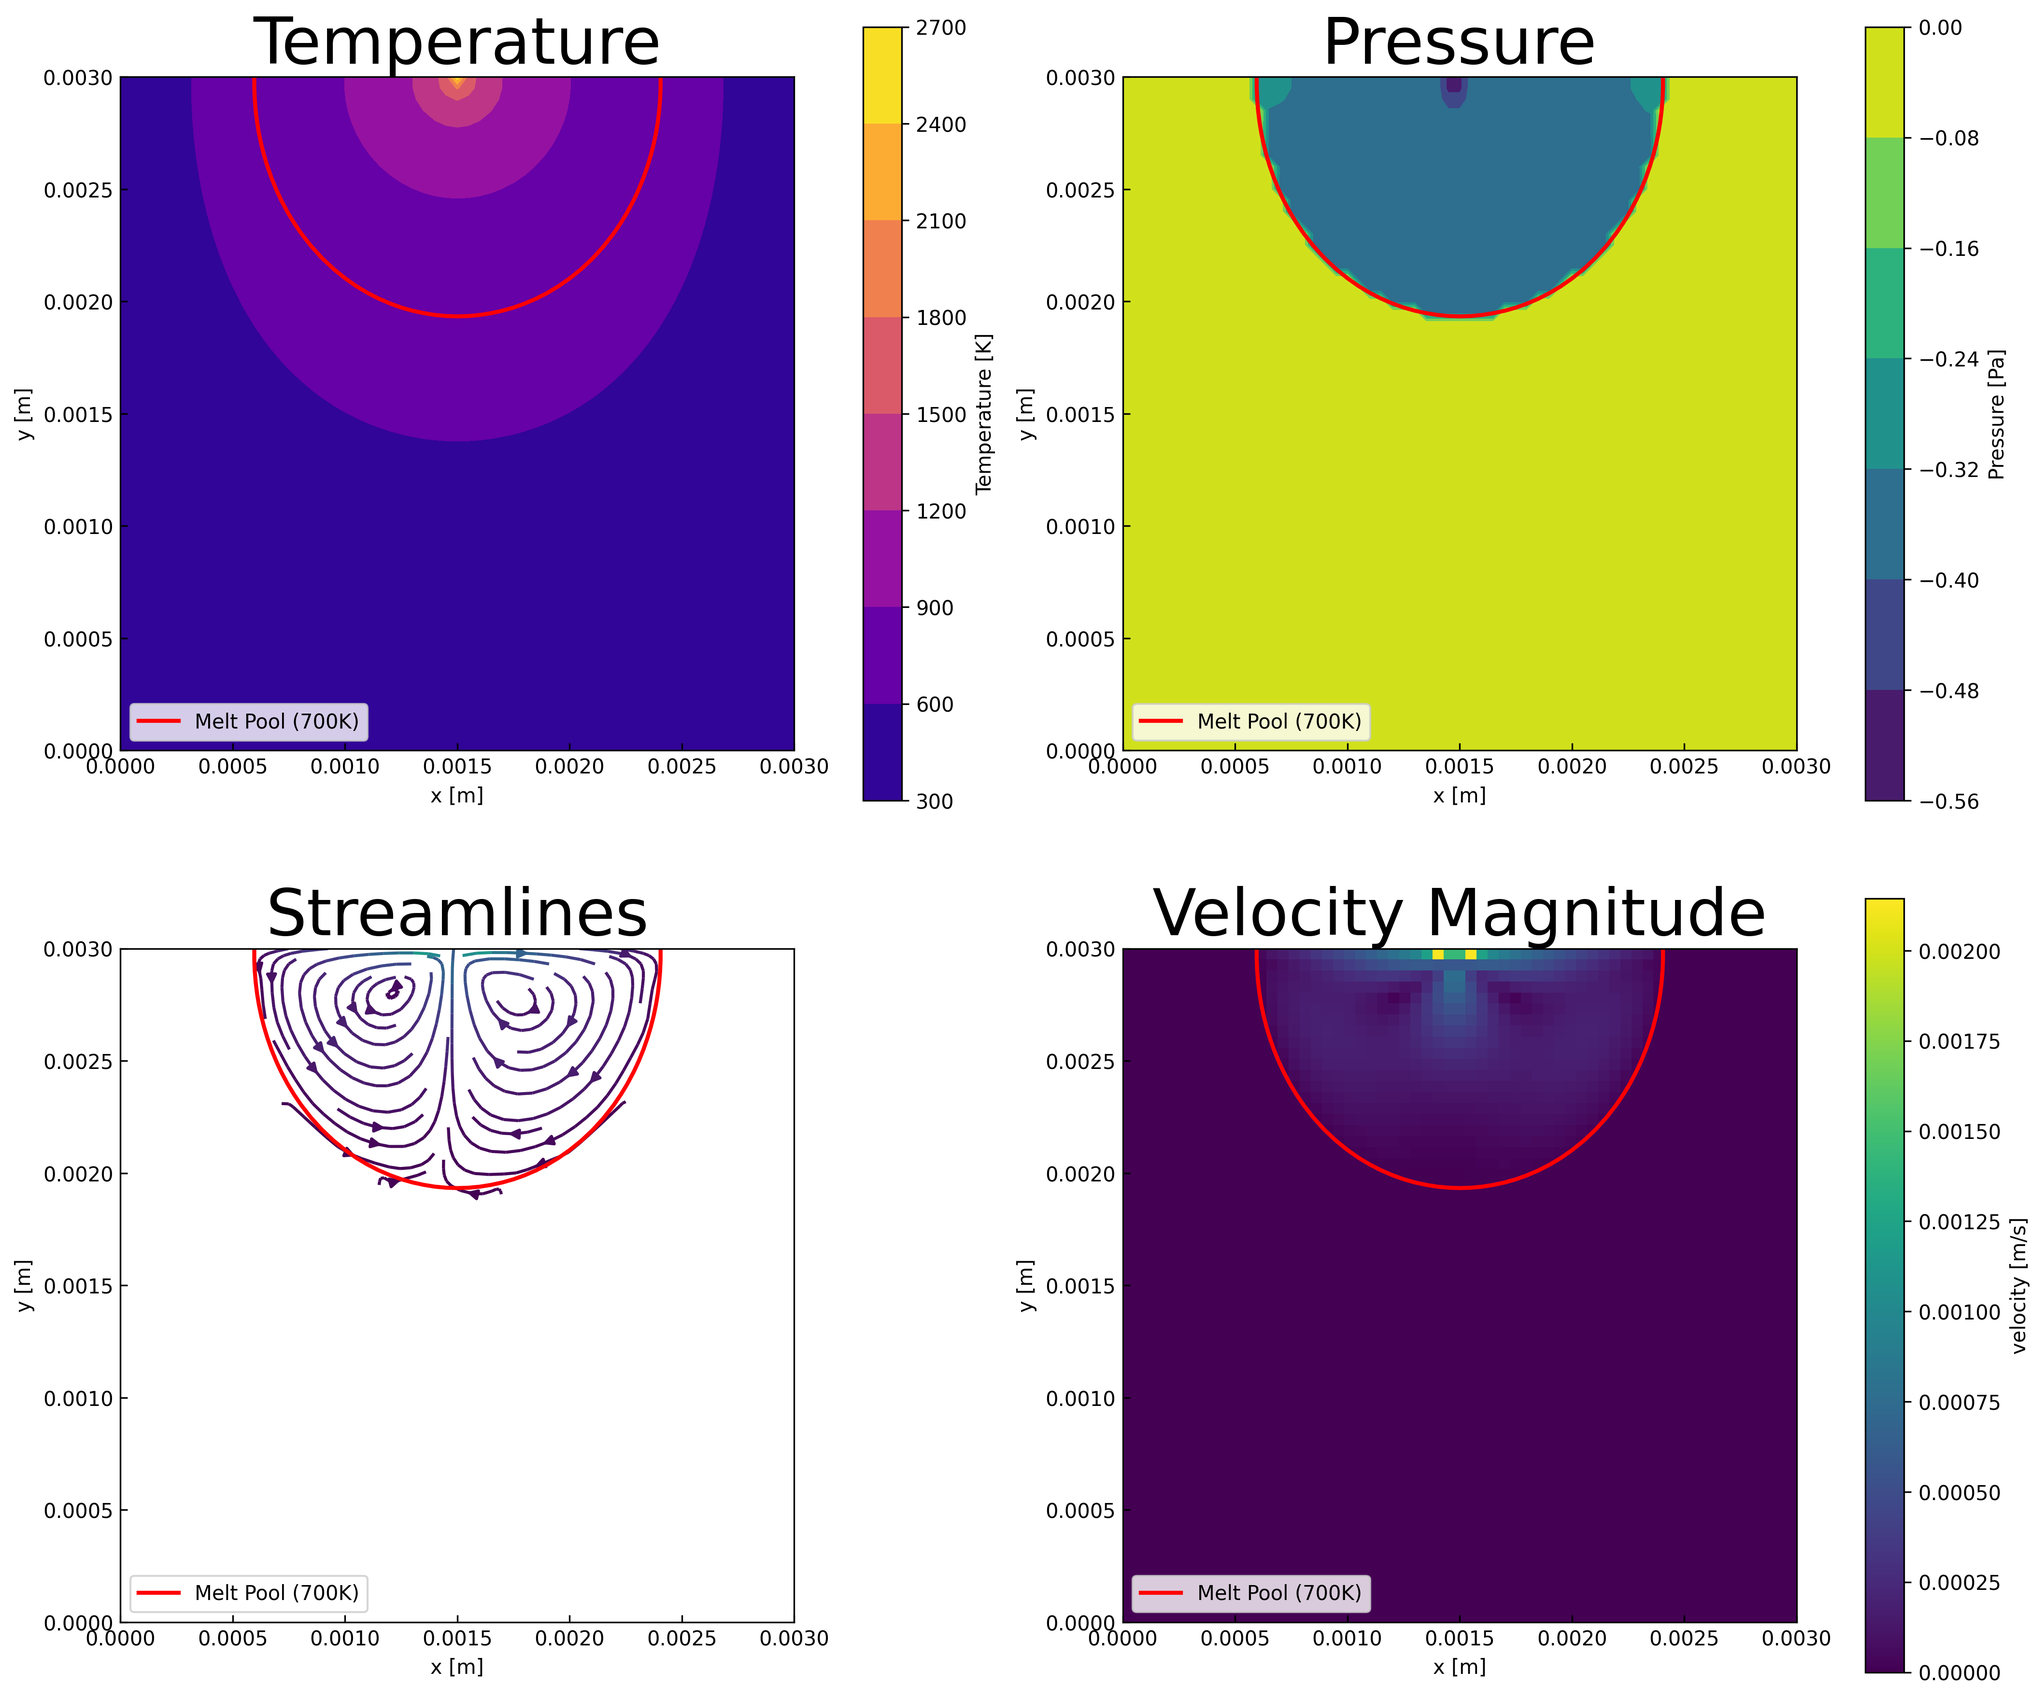
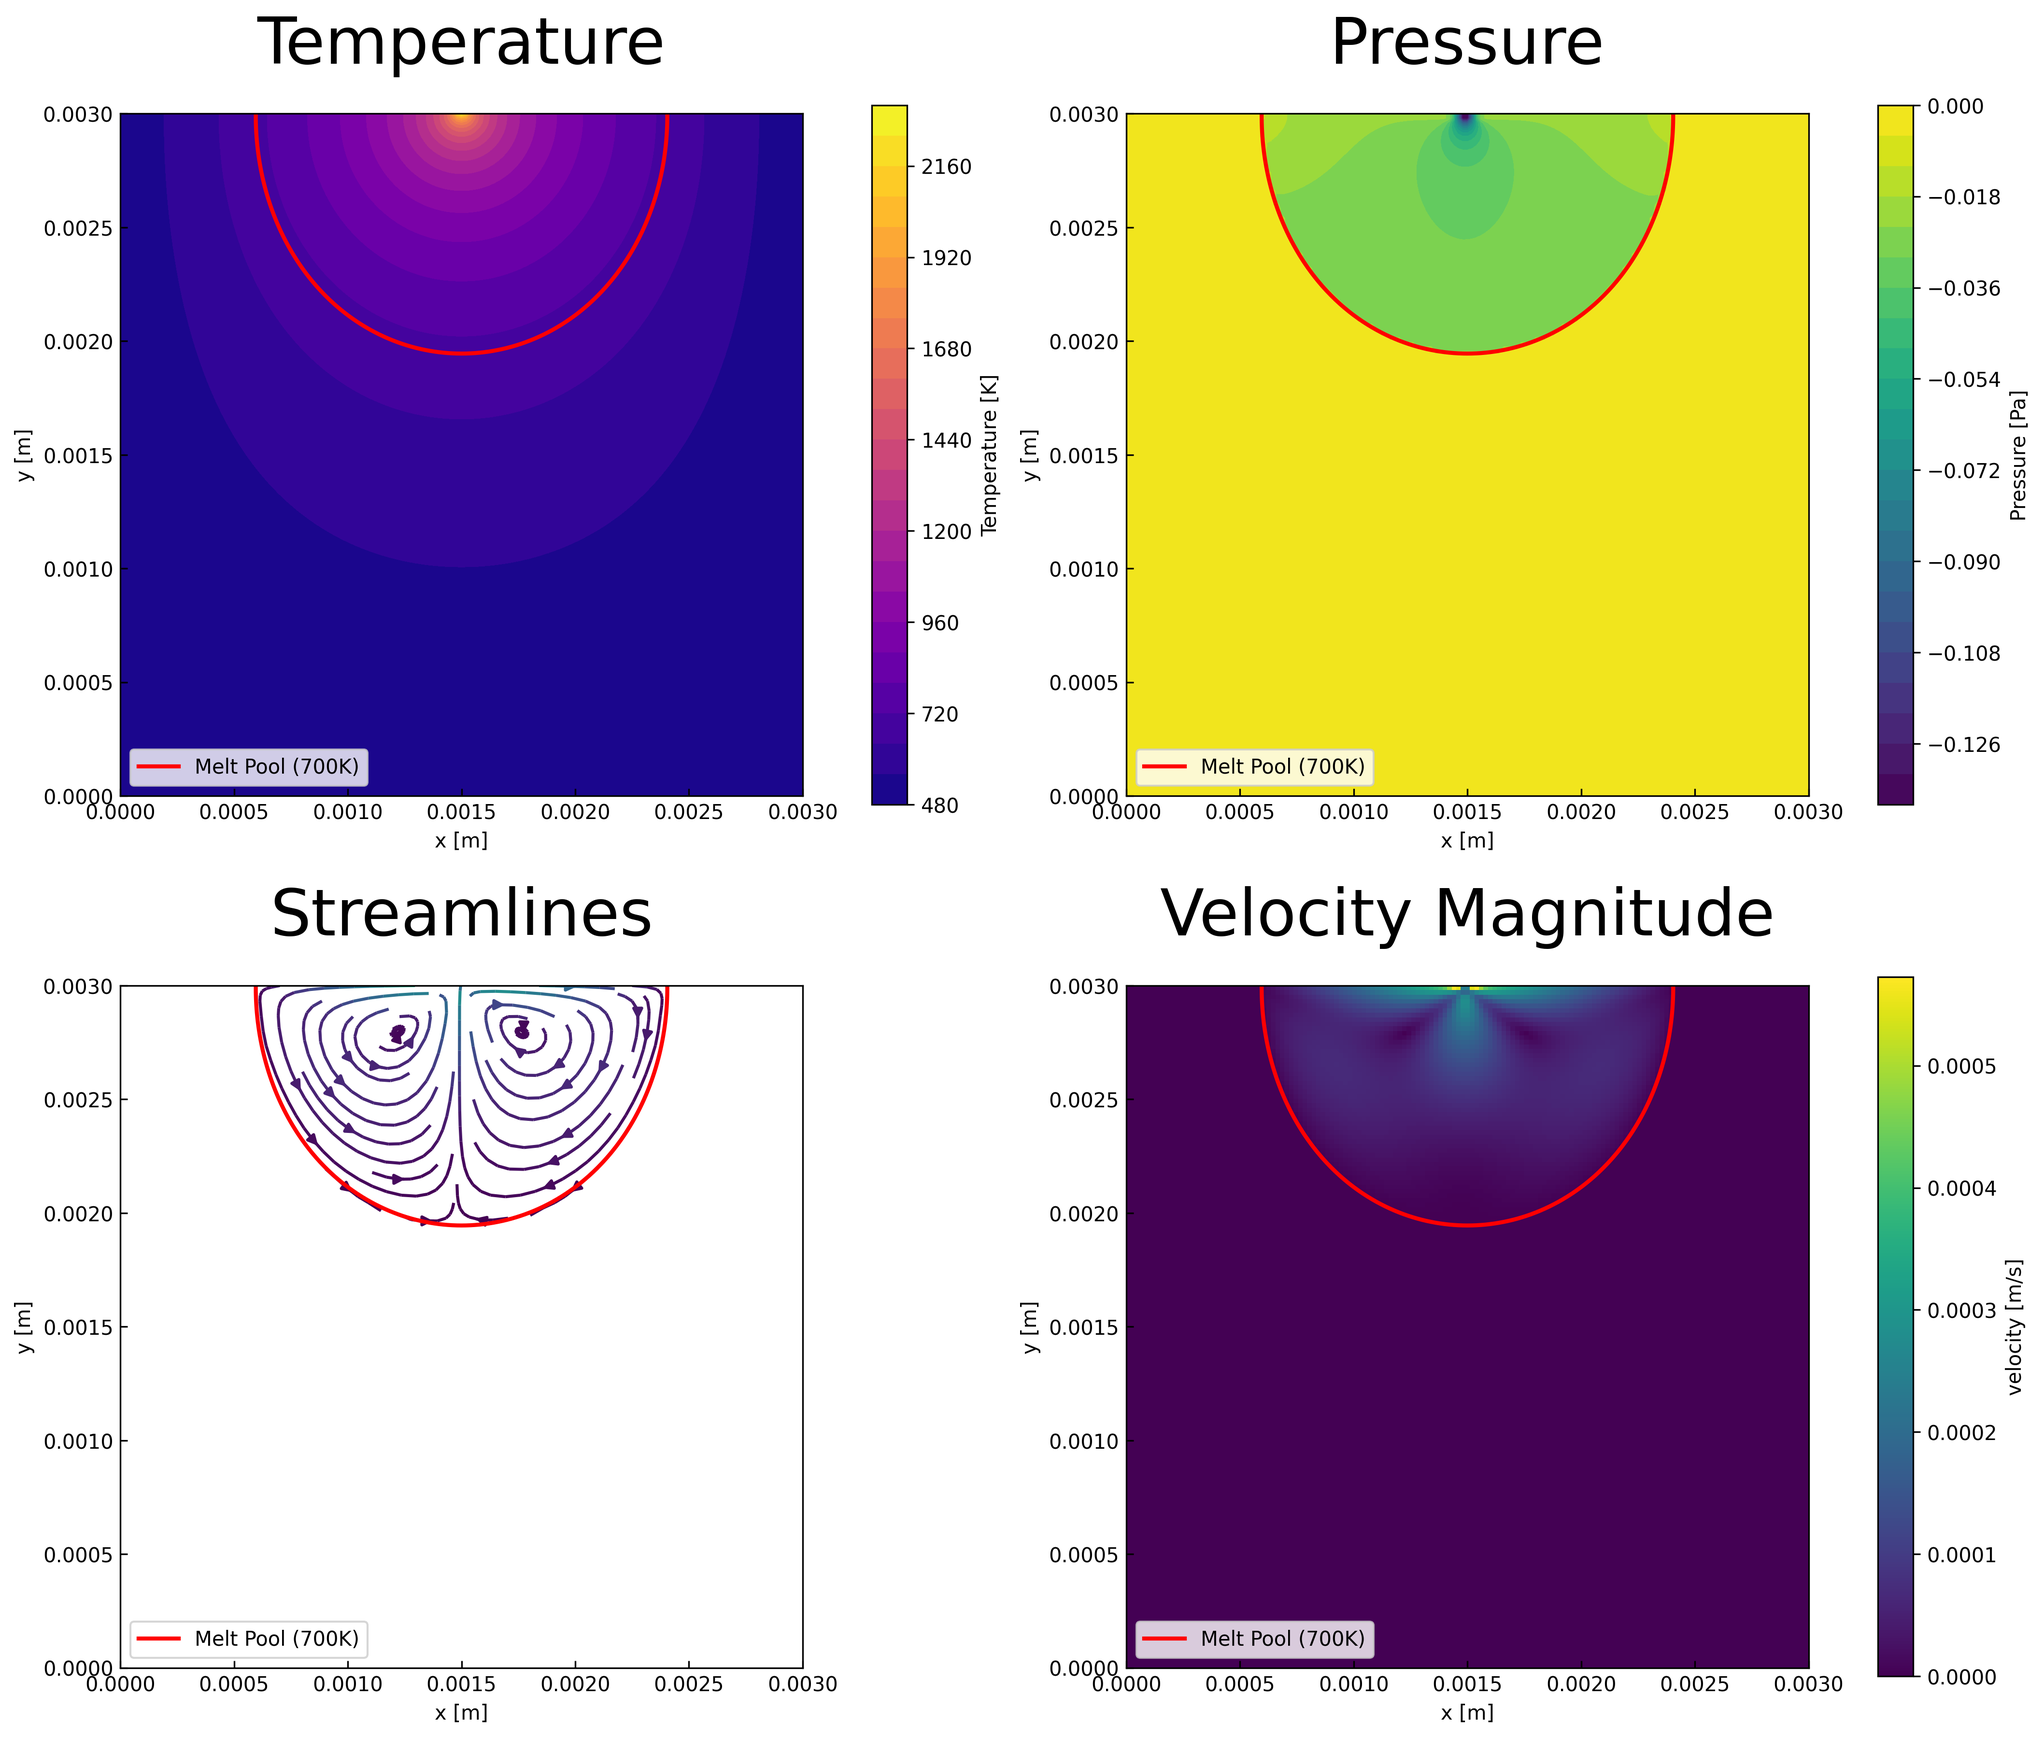
Adds figures with their respective generation scripts.

diff --git a/figures/figure_3x1_streamlines.py b/figures/figure_3x1_streamlines.py
@@ -1,0 +1,92 @@
+import numpy as np
+import matplotlib.pyplot as plt
+import os
+
+# Mesh configurations (dx in meters, converted to microns for title)
+mesh_configs = [
+    {'name': '1_coarse', 'last_timestep': '49999', 'dx': 0.0001, 'title': 'Coarse Mesh'},
+    {'name': '2_medium', 'last_timestep': '99999', 'dx': 0.00005, 'title': 'Medium Mesh'},
+    {'name': '3_fine', 'last_timestep': '250000', 'dx': 0.00002, 'title': 'Fine Mesh'}
+]
+
+# Grid dimensions
+Lx, Ly = 0.003, 0.003
+
+# Melt pool temperature threshold
+t_melt = 700
+
+# Create 3x1 subplot
+fig, axes = plt.subplots(1, 3, figsize=(18, 6), constrained_layout=True)
+
+# Make all subplots have the same physical size
+for ax in axes:
+    ax.set_box_aspect(1)
+
+from matplotlib.lines import Line2D
+legend_elements = [Line2D([0], [0], color='red', linewidth=2, label='Melt Pool (700K)')]
+
+for idx, config in enumerate(mesh_configs):
+    ax = axes[idx]
+
+    # Load data
+    data_dir = f"results/{config['name']}/{config['last_timestep']}"
+    u = np.load(os.path.join(data_dir, "u.npy"))
+    v = np.load(os.path.join(data_dir, "v.npy"))
+    T = np.load(os.path.join(data_dir, "T.npy"))
+
+    # Interpolate velocities to cell centers
+    u_interpolated = 0.5 * (u[1:, :] + u[:-1, :])
+    v_interpolated = 0.5 * (v[:, 1:] + v[:, :-1])
+
+    # Transpose for plotting
+    u_T = u_interpolated.T
+    v_T = v_interpolated.T
+
+    # Grid dimensions
+    Nx, Ny = T.shape[0] - 1, T.shape[1] - 1
+    x = np.linspace(0, Lx, Nx+1)
+    y = np.linspace(0, Ly, Ny+1)
+
+    xx, yy = np.meshgrid(x, y)
+
+    # Add mesh grid overlay (set grid first so it appears in background)
+    dx = config['dx']
+    dy = config['dx']  # dy = dx for square meshes
+    x_grid = np.arange(0, Lx + dx, dx)
+    y_grid = np.arange(0, Ly + dy, dy)
+    ax.set_xticks(x_grid, minor=False)
+    ax.set_yticks(y_grid, minor=False)
+    ax.grid(which='major', color='gray', linestyle='-', linewidth=0.8, alpha=0.4, zorder=0)
+
+    # Streamlines (plotted on top of grid)
+    ax.streamplot(xx, yy, u_T, v_T, color=np.sqrt(u_T*u_T + v_T*v_T),
+                   density=1.5, linewidth=1.5, cmap='viridis', zorder=2)
+    ax.contour(x, y, np.transpose(T), [t_melt], colors='red', linewidths=2, zorder=3)
+
+    ax.set_xlabel('x [m]')
+    ax.set_ylabel('y [m]')
+    # Convert dx from meters to microns (1 m = 1e6 microns)
+    dx_microns = config['dx'] * 1e6
+    ax.set_title(f"{config['title']} (dx, dy = {dx_microns:.0f} µm)", fontsize=24, pad=25)
+    ax.set_ylim([0, Ly])
+    ax.set_xlim([0, Lx])
+    ax.set_aspect('equal')
+    ax.tick_params(direction='in')
+
+    # Show only first and last tick labels
+    ax.set_xticklabels([''] * len(x_grid))
+    ax.set_yticklabels([''] * len(y_grid))
+    xtick_labels = ax.get_xticklabels()
+    ytick_labels = ax.get_yticklabels()
+    if len(xtick_labels) > 0:
+        xtick_labels[0].set_text(f'{x_grid[0]:.4f}')
+        xtick_labels[-1].set_text(f'{x_grid[-1]:.4f}')
+    if len(ytick_labels) > 0:
+        ytick_labels[0].set_text(f'{y_grid[0]:.4f}')
+        ytick_labels[-1].set_text(f'{y_grid[-1]:.4f}')
+    ax.set_xticklabels(xtick_labels)
+    ax.set_yticklabels(ytick_labels)
+
+    ax.legend(handles=legend_elements, loc='lower left')
+
+plt.savefig('figures/figure_3x1_streamlines.png', dpi=300, bbox_inches='tight')

diff --git a/figures/figure_1x2_directional.py b/figures/figure_1x2_directional.py
@@ -1,0 +1,84 @@
+import numpy as np
+import matplotlib.pyplot as plt
+import os
+
+# Flow configurations
+flow_configs = [
+    {'name': '3_fine', 'last_timestep': '250000', 'title': 'Forward Flow', 'dSigma': -1.9e-4},
+    {'name': '3_fine_reverse', 'last_timestep': '250000', 'title': 'Reverse Flow', 'dSigma': 1.9e-4}
+]
+
+# Grid dimensions
+Lx, Ly = 0.003, 0.003
+
+# Melt pool temperature threshold
+t_melt = 700
+
+# Create 1x2 subplot
+fig, axes = plt.subplots(1, 2, figsize=(14, 6), constrained_layout=True)
+
+# Make all subplots have the same physical size
+for ax in axes:
+    ax.set_box_aspect(1)
+
+from matplotlib.lines import Line2D
+legend_elements = [Line2D([0], [0], color='red', linewidth=2, label='Melt Pool (700K)')]
+
+# First pass: determine global temperature range across both flows
+T_min = float('inf')
+T_max = float('-inf')
+for config in flow_configs:
+    data_dir = f"results/{config['name']}/{config['last_timestep']}"
+    T = np.load(os.path.join(data_dir, "T.npy"))
+    T_min = min(T_min, T.min())
+    T_max = max(T_max, T.max())
+
+for idx, config in enumerate(flow_configs):
+    ax = axes[idx]
+
+    # Load data
+    data_dir = f"results/{config['name']}/{config['last_timestep']}"
+    u = np.load(os.path.join(data_dir, "u.npy"))
+    v = np.load(os.path.join(data_dir, "v.npy"))
+    T = np.load(os.path.join(data_dir, "T.npy"))
+
+    # Interpolate velocities to cell centers
+    u_interpolated = 0.5 * (u[1:, :] + u[:-1, :])
+    v_interpolated = 0.5 * (v[:, 1:] + v[:, :-1])
+
+    # Transpose for plotting
+    u_T = u_interpolated.T
+    v_T = v_interpolated.T
+
+    # Grid dimensions
+    Nx, Ny = T.shape[0] - 1, T.shape[1] - 1
+    x = np.linspace(0, Lx, Nx+1)
+    y = np.linspace(0, Ly, Ny+1)
+
+    xx, yy = np.meshgrid(x, y)
+
+    # Temperature field with consistent colormap range and more contour levels
+    contour_T = ax.contourf(x, y, np.transpose(T), levels=25, cmap='plasma', vmin=T_min, vmax=T_max, zorder=1)
+    # Only add colorbar to the rightmost subplot
+    if idx == len(flow_configs) - 1:
+        cbar = plt.colorbar(contour_T, ax=ax, label='Temperature [K]')
+
+    # Streamlines (overlayed on top)
+    ax.streamplot(xx, yy, u_T, v_T, color='black', density=1.5, linewidth=1.0, zorder=2)
+
+    # Melt pool contour
+    ax.contour(x, y, np.transpose(T), [t_melt], colors='red', linewidths=2, zorder=3)
+
+    ax.set_xlabel(config['title'], fontsize=18)
+    # ax.set_xlabel(f"{config['title']} (dσ/dT = {config['dSigma']:.1e} N/m·K)", fontsize=18)
+    ax.set_ylabel('y [m]')
+    ax.set_ylim([0, Ly])
+    ax.set_xlim([0, Lx])
+    ax.set_aspect('equal')
+    ax.tick_params(direction='in')
+    ax.legend(handles=legend_elements, loc='lower left')
+
+# Add super title with padding
+fig.suptitle('Directional Stream Comparison', fontsize=32, y=1.08)
+
+plt.savefig('figures/figure_1x2_directional.png', dpi=300, bbox_inches='tight')

diff --git a/figures/figure_1x5_temporal.py b/figures/figure_1x5_temporal.py
@@ -1,0 +1,86 @@
+import numpy as np
+import matplotlib.pyplot as plt
+import os
+
+# Timestep configurations (dt = 0.000004 s)
+timestep_configs = [
+    {'folder': '050001', 'time': 0.2},
+    {'folder': '100001', 'time': 0.4},
+    {'folder': '150001', 'time': 0.6},
+    {'folder': '200001', 'time': 0.8},
+    {'folder': '250000', 'time': 1.0}
+]
+
+# Grid dimensions
+Lx, Ly = 0.003, 0.003
+
+# Melt pool temperature threshold
+t_melt = 700
+
+# Create 1x5 subplot
+fig, axes = plt.subplots(1, 5, figsize=(25, 5), constrained_layout=True)
+
+# Make all subplots have the same physical size
+for ax in axes:
+    ax.set_box_aspect(1)
+
+from matplotlib.lines import Line2D
+legend_elements = [Line2D([0], [0], color='red', linewidth=2, label='Melt Pool (700K)')]
+
+# First pass: determine global temperature range across all timesteps
+T_min = float('inf')
+T_max = float('-inf')
+for config in timestep_configs:
+    data_dir = f"results/3_fine/{config['folder']}"
+    T = np.load(os.path.join(data_dir, "T.npy"))
+    T_min = min(T_min, T.min())
+    T_max = max(T_max, T.max())
+
+for idx, config in enumerate(timestep_configs):
+    ax = axes[idx]
+
+    # Load data
+    data_dir = f"results/3_fine/{config['folder']}"
+    u = np.load(os.path.join(data_dir, "u.npy"))
+    v = np.load(os.path.join(data_dir, "v.npy"))
+    T = np.load(os.path.join(data_dir, "T.npy"))
+
+    # Interpolate velocities to cell centers
+    u_interpolated = 0.5 * (u[1:, :] + u[:-1, :])
+    v_interpolated = 0.5 * (v[:, 1:] + v[:, :-1])
+
+    # Transpose for plotting
+    u_T = u_interpolated.T
+    v_T = v_interpolated.T
+
+    # Grid dimensions
+    Nx, Ny = T.shape[0] - 1, T.shape[1] - 1
+    x = np.linspace(0, Lx, Nx+1)
+    y = np.linspace(0, Ly, Ny+1)
+
+    xx, yy = np.meshgrid(x, y)
+
+    # Temperature field with consistent colormap range and more contour levels
+    contour_T = ax.contourf(x, y, np.transpose(T), levels=25, cmap='plasma', vmin=T_min, vmax=T_max, zorder=1)
+    # Only add colorbar to the rightmost subplot
+    if idx == len(timestep_configs) - 1:
+        cbar = plt.colorbar(contour_T, ax=ax, label='Temperature [K]')
+
+    # Streamlines (overlayed on top)
+    ax.streamplot(xx, yy, u_T, v_T, color='black', density=1.5, linewidth=1.0, zorder=2)
+
+    # Melt pool contour
+    ax.contour(x, y, np.transpose(T), [t_melt], colors='red', linewidths=2, zorder=3)
+
+    ax.set_xlabel(f"t = {config['time']:.1f} s", fontsize=18)
+    ax.set_ylabel('y [m]')
+    ax.set_ylim([0, Ly])
+    ax.set_xlim([0, Lx])
+    ax.set_aspect('equal')
+    ax.tick_params(direction='in')
+    ax.legend(handles=legend_elements, loc='lower left')
+
+# Add super title with padding
+fig.suptitle('Melt Pool Evolution', fontsize=32, y=1.02)
+
+plt.savefig('figures/figure_1x5_temporal.png', dpi=300, bbox_inches='tight')

diff --git a/figures/figure_2x2.py b/figures/figure_2x2.py
@@ -2,8 +2,7 @@ import numpy as np
 import matplotlib.pyplot as plt
 import os
 
-# Load data from results/2_medium last timestep
-data_dir = "results/2_medium/99999"
+data_dir = "results/3_fine/250000"
 
 p = np.load(os.path.join(data_dir, "p.npy"))
 u = np.load(os.path.join(data_dir, "u.npy"))
@@ -44,24 +43,24 @@ legend_elements = [Line2D([0], [0], color='red', linewidth=2, label='Melt Pool (
 
 # 1. Temperature (top-left)
 ax = axes[0, 0]
-contour_T = ax.contourf(x, y, np.transpose(T), cmap='plasma')
+contour_T = ax.contourf(x, y, np.transpose(T), levels=25, cmap='plasma')
 plt.colorbar(contour_T, ax=ax, label='Temperature [K]')
 melt_contour = ax.contour(x, y, np.transpose(T), [t_melt], colors='red', linewidths=2)
 ax.set_xlabel('x [m]')
 ax.set_ylabel('y [m]')
-ax.set_title('Temperature', fontsize=32)
+ax.set_title('Temperature', fontsize=32, pad=25)
 ax.set_aspect('equal')
 ax.tick_params(direction='in')
 ax.legend(handles=legend_elements, loc='lower left')
 
 # 2. Pressure (top-right)
 ax = axes[0, 1]
-contour_p = ax.contourf(x, y, np.transpose(p))
+contour_p = ax.contourf(x, y, np.transpose(p), levels=25)
 plt.colorbar(contour_p, ax=ax, label='Pressure [Pa]')
 ax.contour(x, y, np.transpose(T), [t_melt], colors='red', linewidths=2)
 ax.set_xlabel('x [m]')
 ax.set_ylabel('y [m]')
-ax.set_title('Pressure', fontsize=32)
+ax.set_title('Pressure', fontsize=32, pad=25)
 ax.set_aspect('equal')
 ax.tick_params(direction='in')
 ax.legend(handles=legend_elements, loc='lower left')
@@ -73,7 +72,7 @@ ax.streamplot(xx, yy, u_T, v_T, color=np.sqrt(u_T*u_T + v_T*v_T),
 ax.contour(x, y, np.transpose(T), [t_melt], colors='red', linewidths=2)
 ax.set_xlabel('x [m]')
 ax.set_ylabel('y [m]')
-ax.set_title('Streamlines', fontsize=32)
+ax.set_title('Streamlines', fontsize=32, pad=25)
 ax.set_ylim([0, Ly])
 ax.set_xlim([0, Lx])
 ax.set_aspect('equal')
@@ -87,7 +86,7 @@ plt.colorbar(im, ax=ax, label='velocity [m/s]')
 ax.contour(x, y, np.transpose(T), [t_melt], colors='red', linewidths=2)
 ax.set_xlabel('x [m]')
 ax.set_ylabel('y [m]')
-ax.set_title('Velocity Magnitude', fontsize=32)
+ax.set_title('Velocity Magnitude', fontsize=32, pad=25)
 ax.set_aspect('equal')
 ax.tick_params(direction='in')
 ax.legend(handles=legend_elements, loc='lower left')

diff --git a/figures/figure_melt_pool_contours.py b/figures/figure_melt_pool_contours.py
@@ -1,0 +1,47 @@
+import numpy as np
+import matplotlib.pyplot as plt
+import os
+
+# Grid dimensions
+Lx, Ly = 0.003, 0.003
+
+# Melt pool temperature threshold
+t_melt = 700
+
+# Load temperature data from different cases
+data_3_fine = np.load("results/3_fine/250000/T.npy")
+data_3_fine_no_vel = np.load("results/3_fine/250000/T_no_velocity.npy")
+data_3_fine_reverse = np.load("results/3_fine_reverse/250000/T.npy")
+
+# Grid dimensions
+Nx, Ny = data_3_fine.shape[0] - 1, data_3_fine.shape[1] - 1
+x = np.linspace(0, Lx, Nx+1)
+y = np.linspace(0, Ly, Ny+1)
+
+# Create figure
+fig, ax = plt.subplots(1, 1, figsize=(8, 8), constrained_layout=True)
+ax.set_box_aspect(1)
+
+# Plot melt pool contours for each case
+contour_fine = ax.contour(x, y, np.transpose(data_3_fine), [t_melt], colors='blue', linewidths=2, linestyles='-')
+contour_no_vel = ax.contour(x, y, np.transpose(data_3_fine_no_vel), [t_melt], colors='green', linewidths=2, linestyles='--')
+contour_reverse = ax.contour(x, y, np.transpose(data_3_fine_reverse), [t_melt], colors='red', linewidths=2, linestyles='-.')
+
+# Create legend
+from matplotlib.lines import Line2D
+legend_elements = [
+    Line2D([0], [0], color='blue', linewidth=2, linestyle='-', label='Forward Flow'),
+    Line2D([0], [0], color='green', linewidth=2, linestyle='--', label='Forward Flow (no velocity component)'),
+    Line2D([0], [0], color='red', linewidth=2, linestyle='-.', label='Reverse Flow')
+]
+ax.legend(handles=legend_elements, loc='lower left', fontsize=12)
+
+ax.set_xlabel('x [m]')
+ax.set_ylabel('y [m]')
+ax.set_title('Melt Pool Contours', fontsize=24, pad=25)
+ax.set_ylim([0, Ly])
+ax.set_xlim([0, Lx])
+ax.set_aspect('equal')
+ax.tick_params(direction='in')
+
+plt.savefig('figures/figure_melt_pool_contours.png', dpi=300, bbox_inches='tight')
